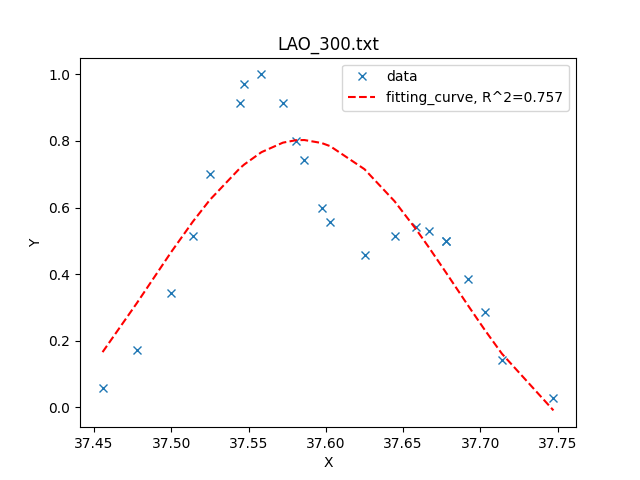
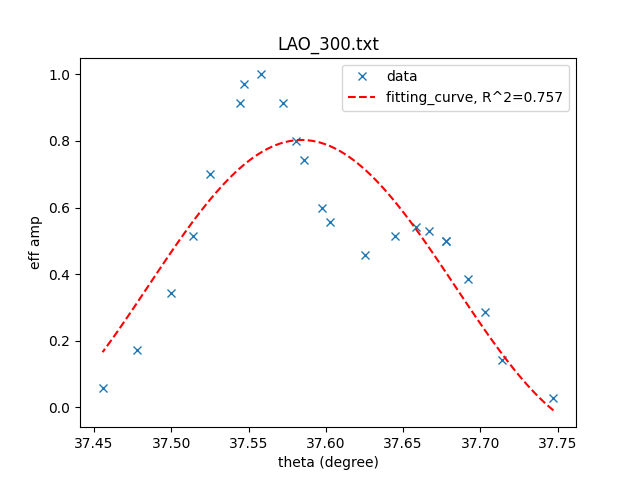
fix some figure

diff --git a/double_Voigt_baseline_fit.py b/double_Voigt_baseline_fit.py
@@ -22,8 +22,8 @@ def preduce_figure(file):
 
     # Initial guesses (add a linear baseline a0 and a1, and optional a2 for quadratic)
     initial_guess = [
-        max(y_data), np.mean(x_data) - np.std(x_data)*1.5, np.std(x_data), np.std(x_data) / 2,  # First Voigt
-        max(y_data) / 2, np.mean(x_data) + np.std(x_data)*1.5, np.std(x_data), np.std(x_data) / 2,  # Second Voigt
+        max(y_data), np.mean(x_data) - np.std(x_data)*0.5, np.std(x_data), np.std(x_data) / 2,  # First Voigt
+        max(y_data) / 2, np.mean(x_data) + np.std(x_data)*0.5, np.std(x_data), np.std(x_data) / 2,  # Second Voigt
         min(y_data), 0, 0  # Linear and optional quadratic baseline terms
     ]
 
@@ -58,10 +58,10 @@ def preduce_figure(file):
 
     # Plotting
     plt.figure()
-    plt.plot(x_data, y_data, 'b-', label='Data')
-    plt.plot(x_data, double_voigt_with_baseline(x_data, *params), 'r--', label='Double Voigt with Baseline Fit')
-    plt.xlabel('X')
-    plt.ylabel('Y')
+    plt.plot(x_data, y_data, 'x', label='Data')
+    plt.plot(np.linspace(max(x_data), min(x_data), 100), double_voigt_with_baseline(np.linspace(max(x_data), min(x_data), 100), *params), 'r--', label=f'fitting_curve, R^2={r_squared:.3f}')
+    plt.xlabel('theta (degree)')
+    plt.ylabel('eff amp')
     plt.legend()
     plt.title(file)
     plt.savefig(f'./image/two_Voigt_with_baseline/{file}.png')

diff --git a/Voigt_offset_fit.py b/Voigt_offset_fit.py
@@ -16,7 +16,7 @@ def preduce_figure(file):
     x_data = data[:, 0]
     y_data = data[:, 1]
     # 使用 curve_fit 進行 Voigt 分布擬合
-    initial_guess = [max(y_data), np.mean(x_data), np.std(x_data), np.std(x_data) / 2, 0]  # 初始猜測值：amplitude, center, sigma, gamma
+    initial_guess = [max(y_data), np.mean(x_data), np.std(x_data), np.std(x_data) / 2, 1]  # 初始猜測值：amplitude, center, sigma, gamma
     params, covariance = curve_fit(voigt, x_data, y_data, p0=initial_guess, maxfev = 10000000)
 
     # 擬合參數
@@ -35,9 +35,9 @@ def preduce_figure(file):
     # 繪圖
     plt.figure()
     plt.plot(x_data, y_data, 'x', label='data')
-    plt.plot(x_data, voigt(x_data, *params), 'r--', label=f'fitting_curve, R^2={r_squared:.3f}')
-    plt.xlabel('X')
-    plt.ylabel('Y')
+    plt.plot(np.linspace(max(x_data), min(x_data), 100), voigt(np.linspace(max(x_data), min(x_data), 100), *params), 'r--', label=f'fitting_curve, R^2={r_squared:.3f}')
+    plt.xlabel('theta (degree)')
+    plt.ylabel('eff amp')
     plt.legend()
     plt.title(file)
     plt.savefig(f'./image/offset/{file}.png')

diff --git a/Voigt_baseline_fit.py b/Voigt_baseline_fit.py
@@ -54,10 +54,10 @@ def preduce_figure(file):
 
     # Plotting
     plt.figure()
-    plt.plot(x_data, y_data, 'b-', label='Data')
-    plt.plot(x_data, single_voigt_with_baseline(x_data, *params), 'r--', label=f'Baseline_Fit, R^2={r_squared:.3f}')
-    plt.xlabel('X')
-    plt.ylabel('Y')
+    plt.plot(x_data, y_data, 'x', label='Data')
+    plt.plot(np.linspace(max(x_data), min(x_data), 100), single_voigt_with_baseline(np.linspace(max(x_data), min(x_data), 100), *params), 'r--', label=f'fitting_curve, R^2={r_squared:.3f}')
+    plt.xlabel('theta (degree)')
+    plt.ylabel('eff amp')
     plt.legend()
     plt.title(file)
     plt.savefig(f'./image/baseline/{file}.png')
